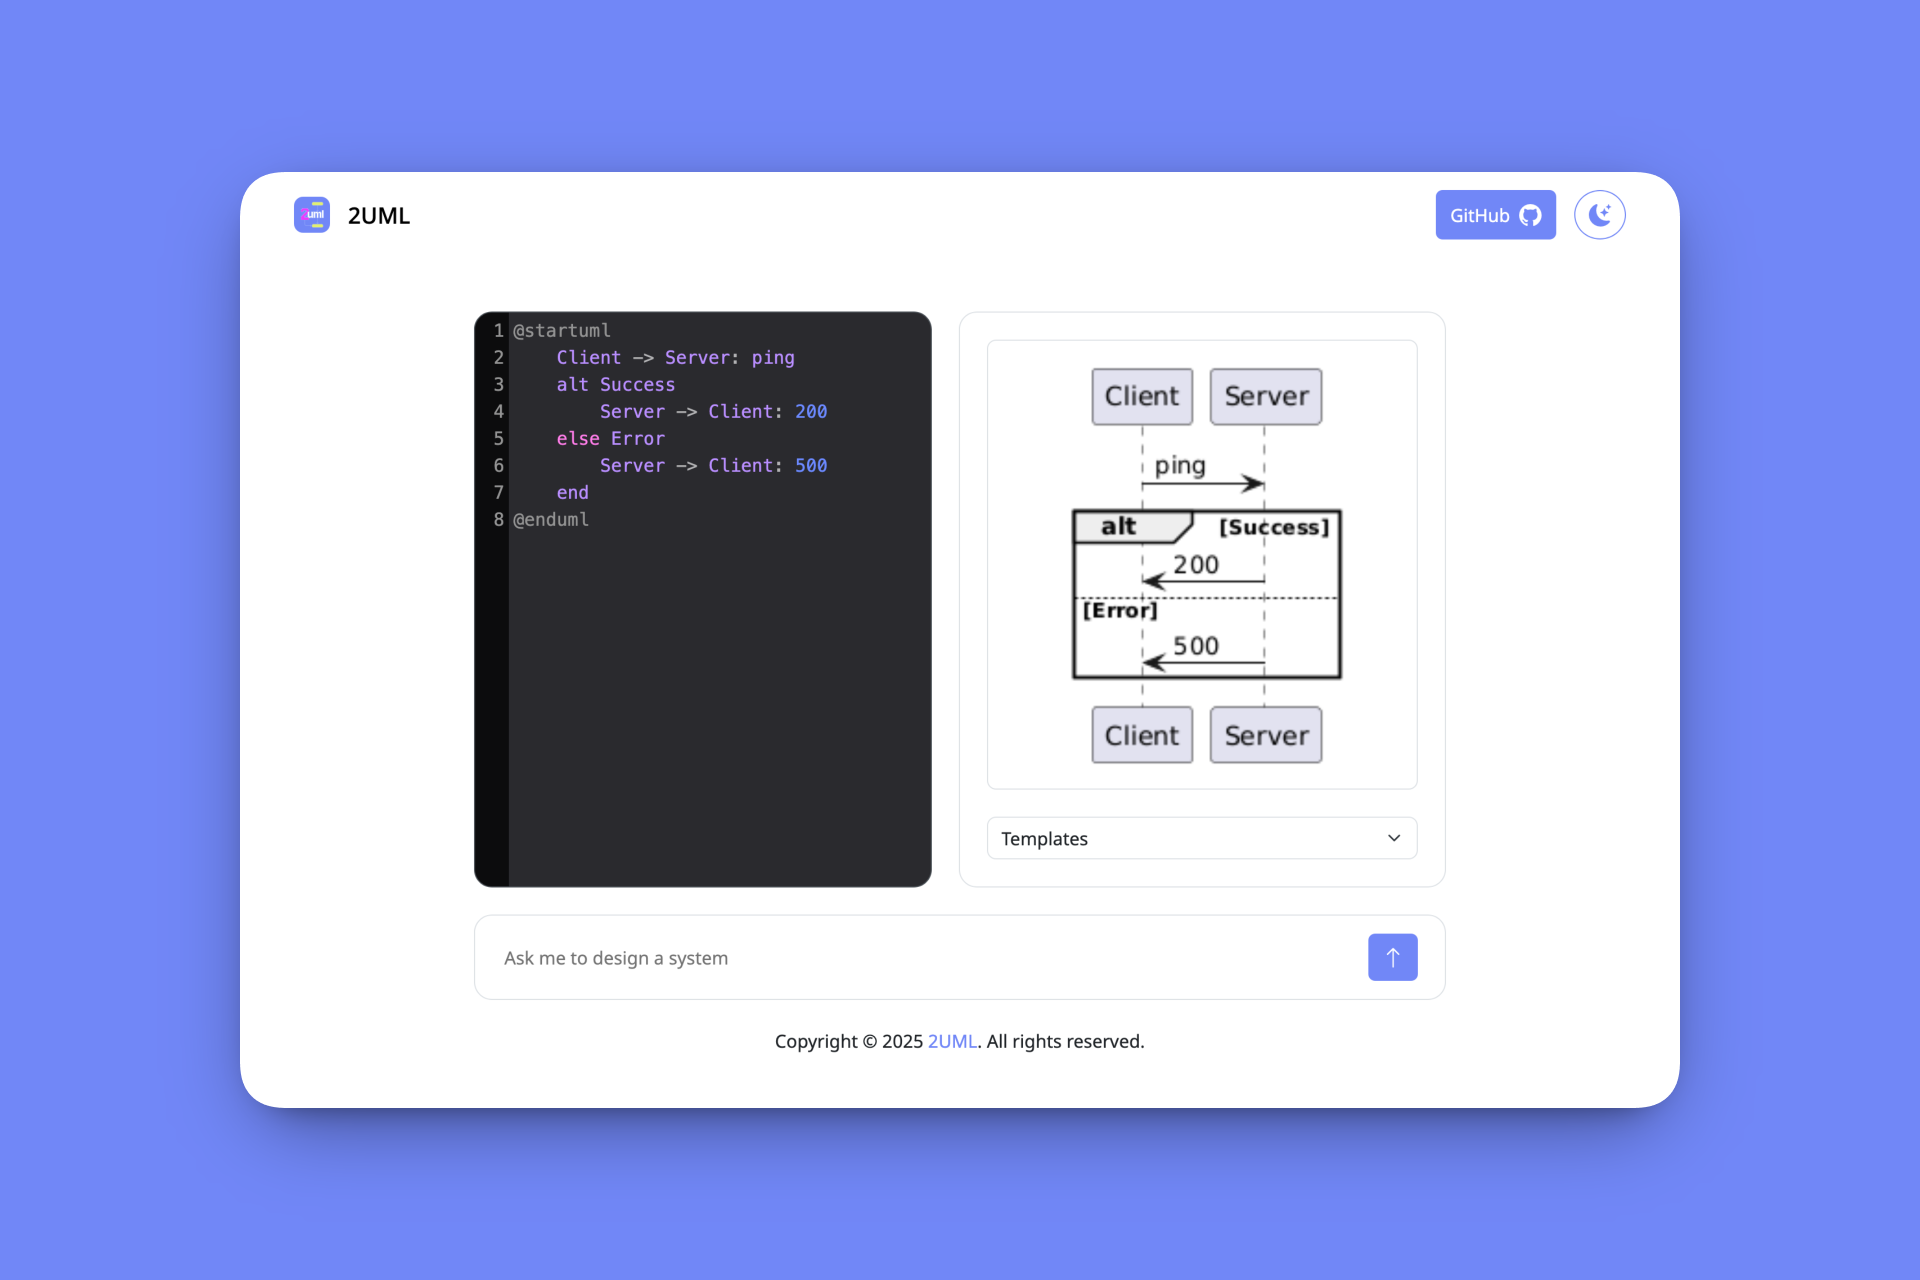
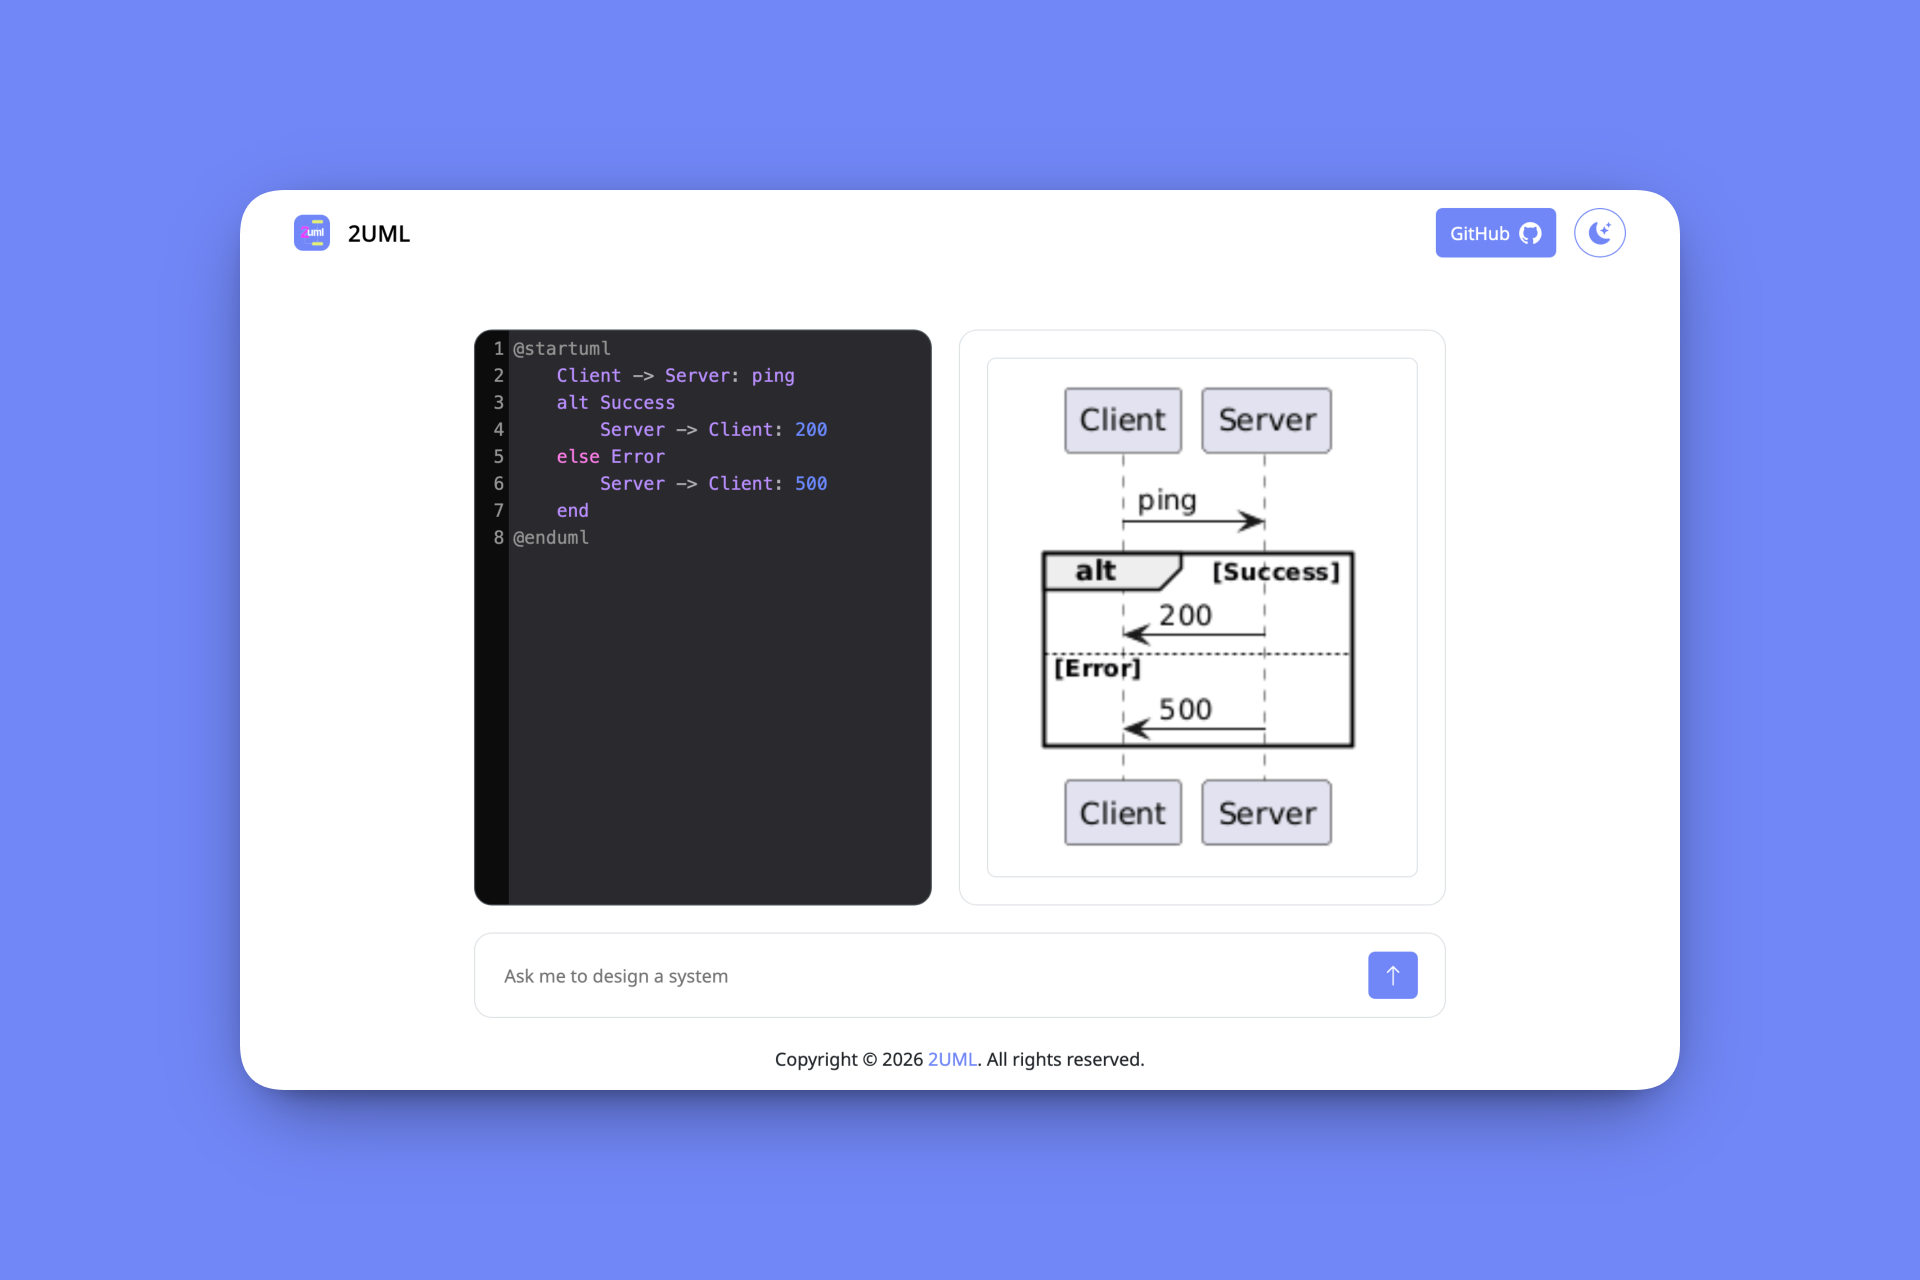
Deployed the app

diff --git a/app/dist/index.html b/app/dist/index.html
@@ -7,7 +7,7 @@ Enjoy my work
 </h2> <h3 class="text-4xl md:text-5xl font-medium text-[var(--white)] mb-6"> Projects </h3> <p class="mb-12 text-[var(--white-icon)]">
 Explore a collection of projects showcasing my skills and
 			contributions.
-</p> <div class="grid grid-cols-1 md:grid-cols-2 gap-8"> <div class="group"> <a href="https://larionow-app-289545143980.europe-west8.run.app" target="_blank" rel="noopener noreferrer" class="block"> <div class="rounded-2xl overflow-hidden shadow-lg hover:shadow-xl transition-shadow duration-300 mb-4"> <img src="/_astro/LarioNow.C44cLE9m_zUciC.webp" alt="LarioNow" loading="lazy" decoding="async" fetchpriority="auto" width="1920" height="1280" class="w-full h-48 md:h-72 object-cover group-hover:scale-105 transition-transform duration-300"> </div> <div class="flex flex-col md:flex-row items-start md:items-center px-3 gap-2"> <div class="flex-grow"> <h4 class="text-2xl font-semibold text-left mb-1 line-clamp-2"> LarioNow </h4> <span class="text-sm text-[var(--white-icon)] text-left block"> Released </span> </div> <div class="hidden md:flex gap-2 mt-2 md:mt-0 md:ml-auto"> <a target="_blank" href="https://github.com/robertovicario/LarioNow" aria-label="GitHub" class="size-14 flex justify-center items-center text-[var(--white-icon)] hover:text-white transition duration-300 ease-in-out border border-1 border-[var(--white-icon-tr)] p-3 rounded-xl bg-[#1414149c] hover:bg-[var(--white-icon-tr)]"> <i class="bi bi-code-slash text-3xl" aria-hidden="true"></i> </a> <a target="_blank" href="https://larionow-app-289545143980.europe-west8.run.app" aria-label="Preview" class="size-14 flex justify-center items-center text-[var(--white-icon)] hover:text-white transition duration-300 ease-in-out border border-1 border-[var(--white-icon-tr)] p-3 rounded-xl bg-[#1414149c] hover:bg-[var(--white-icon-tr)]"> <i class="bi bi-globe2 text-3xl" aria-hidden="true"></i> </a> </div> </div> </a> </div><div class="group"> <a href="https://twouml-osss.onrender.com" target="_blank" rel="noopener noreferrer" class="block"> <div class="rounded-2xl overflow-hidden shadow-lg hover:shadow-xl transition-shadow duration-300 mb-4"> <img src="/_astro/2UML.dTxG95KF_ZjH41o.webp" alt="2UML" loading="lazy" decoding="async" fetchpriority="auto" width="1920" height="1280" class="w-full h-48 md:h-72 object-cover group-hover:scale-105 transition-transform duration-300"> </div> <div class="flex flex-col md:flex-row items-start md:items-center px-3 gap-2"> <div class="flex-grow"> <h4 class="text-2xl font-semibold text-left mb-1 line-clamp-2"> 2UML </h4> <span class="text-sm text-[var(--white-icon)] text-left block"> Released </span> </div> <div class="hidden md:flex gap-2 mt-2 md:mt-0 md:ml-auto"> <a target="_blank" href="https://github.com/robertovicario/2UML" aria-label="GitHub" class="size-14 flex justify-center items-center text-[var(--white-icon)] hover:text-white transition duration-300 ease-in-out border border-1 border-[var(--white-icon-tr)] p-3 rounded-xl bg-[#1414149c] hover:bg-[var(--white-icon-tr)]"> <i class="bi bi-code-slash text-3xl" aria-hidden="true"></i> </a> <a target="_blank" href="https://twouml-osss.onrender.com" aria-label="Preview" class="size-14 flex justify-center items-center text-[var(--white-icon)] hover:text-white transition duration-300 ease-in-out border border-1 border-[var(--white-icon-tr)] p-3 rounded-xl bg-[#1414149c] hover:bg-[var(--white-icon-tr)]"> <i class="bi bi-globe2 text-3xl" aria-hidden="true"></i> </a> </div> </div> </a> </div> </div> <a target="_blank" href="https://github.com/robertovicario?tab=repositories" aria-label="Learn more" class="w-full flex items-center justify-center gap-2 mt-9 text-[var(--white-icon)] hover:text-white transition duration-300 ease-in-out border border-[var(--white-icon-tr)] p-3 rounded-full bg-[#1414149c] hover:bg-[var(--white-icon-tr)]"> <span class="md:text-lg text-md me-2">Learn more</span> <i class="bi bi-github text-2xl" aria-hidden="true"></i> </a> </div> </section> <section id="contact" class="w-full py-16 border-t border-[#ffffff10]"> <div class="max-w-5xl mx-auto text-center"> <h2 class="text-lg text-[var(--primary)] mb-2 shiny-sec">
+</p> <div class="grid grid-cols-1 md:grid-cols-2 gap-8"> <div class="group"> <a href="https://larionow-app-289545143980.europe-west8.run.app" target="_blank" rel="noopener noreferrer" class="block"> <div class="rounded-2xl overflow-hidden shadow-lg hover:shadow-xl transition-shadow duration-300 mb-4"> <img src="/_astro/LarioNow.C44cLE9m_zUciC.webp" alt="LarioNow" loading="lazy" decoding="async" fetchpriority="auto" width="1920" height="1280" class="w-full h-48 md:h-72 object-cover group-hover:scale-105 transition-transform duration-300"> </div> <div class="flex flex-col md:flex-row items-start md:items-center px-3 gap-2"> <div class="flex-grow"> <h4 class="text-2xl font-semibold text-left mb-1 line-clamp-2"> LarioNow </h4> <span class="text-sm text-[var(--white-icon)] text-left block"> Released </span> </div> <div class="hidden md:flex gap-2 mt-2 md:mt-0 md:ml-auto"> <a target="_blank" href="https://github.com/robertovicario/LarioNow" aria-label="GitHub" class="size-14 flex justify-center items-center text-[var(--white-icon)] hover:text-white transition duration-300 ease-in-out border border-1 border-[var(--white-icon-tr)] p-3 rounded-xl bg-[#1414149c] hover:bg-[var(--white-icon-tr)]"> <i class="bi bi-code-slash text-3xl" aria-hidden="true"></i> </a> <a target="_blank" href="https://larionow-app-289545143980.europe-west8.run.app" aria-label="Preview" class="size-14 flex justify-center items-center text-[var(--white-icon)] hover:text-white transition duration-300 ease-in-out border border-1 border-[var(--white-icon-tr)] p-3 rounded-xl bg-[#1414149c] hover:bg-[var(--white-icon-tr)]"> <i class="bi bi-globe2 text-3xl" aria-hidden="true"></i> </a> </div> </div> </a> </div><div class="group"> <a href="https://twouml-osss.onrender.com" target="_blank" rel="noopener noreferrer" class="block"> <div class="rounded-2xl overflow-hidden shadow-lg hover:shadow-xl transition-shadow duration-300 mb-4"> <img src="/_astro/2UML.vgEowZSw_Idve7.webp" alt="2UML" loading="lazy" decoding="async" fetchpriority="auto" width="1920" height="1280" class="w-full h-48 md:h-72 object-cover group-hover:scale-105 transition-transform duration-300"> </div> <div class="flex flex-col md:flex-row items-start md:items-center px-3 gap-2"> <div class="flex-grow"> <h4 class="text-2xl font-semibold text-left mb-1 line-clamp-2"> 2UML </h4> <span class="text-sm text-[var(--white-icon)] text-left block"> Released </span> </div> <div class="hidden md:flex gap-2 mt-2 md:mt-0 md:ml-auto"> <a target="_blank" href="https://github.com/robertovicario/2UML" aria-label="GitHub" class="size-14 flex justify-center items-center text-[var(--white-icon)] hover:text-white transition duration-300 ease-in-out border border-1 border-[var(--white-icon-tr)] p-3 rounded-xl bg-[#1414149c] hover:bg-[var(--white-icon-tr)]"> <i class="bi bi-code-slash text-3xl" aria-hidden="true"></i> </a> <a target="_blank" href="https://twouml-osss.onrender.com" aria-label="Preview" class="size-14 flex justify-center items-center text-[var(--white-icon)] hover:text-white transition duration-300 ease-in-out border border-1 border-[var(--white-icon-tr)] p-3 rounded-xl bg-[#1414149c] hover:bg-[var(--white-icon-tr)]"> <i class="bi bi-globe2 text-3xl" aria-hidden="true"></i> </a> </div> </div> </a> </div> </div> <a target="_blank" href="https://github.com/robertovicario?tab=repositories" aria-label="Learn more" class="w-full flex items-center justify-center gap-2 mt-9 text-[var(--white-icon)] hover:text-white transition duration-300 ease-in-out border border-[var(--white-icon-tr)] p-3 rounded-full bg-[#1414149c] hover:bg-[var(--white-icon-tr)]"> <span class="md:text-lg text-md me-2">Learn more</span> <i class="bi bi-github text-2xl" aria-hidden="true"></i> </a> </div> </section> <section id="contact" class="w-full py-16 border-t border-[#ffffff10]"> <div class="max-w-5xl mx-auto text-center"> <h2 class="text-lg text-[var(--primary)] mb-2 shiny-sec">
 Let's get in touch
 </h2> <h3 class="text-4xl md:text-5xl font-medium text-[var(--white)] mb-6"> Contact me
 </h3> <p class="mb-12 text-[var(--white-icon)]">
